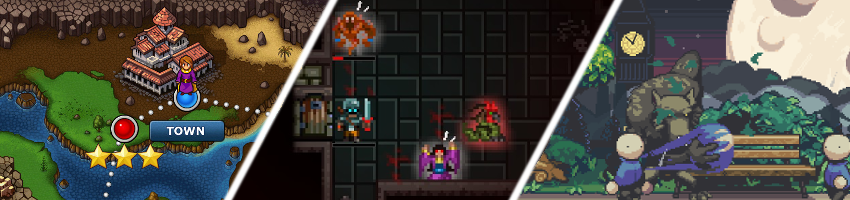
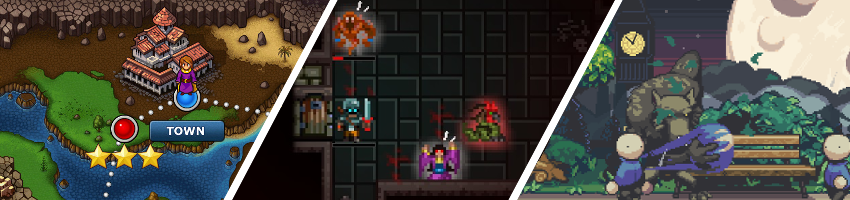
Readme: tweak the images a bit
[skip ci]

diff --git a/README.md b/README.md
@@ -21,7 +21,7 @@ If you want to contribute code or report an issue, please check our [CONTRIBUTIN
 
 Thanks to being built on top of [Haxe](https://haxe.org/) and [OpenFL](http://www.openfl.org/), HaxeFlixel can target the following platforms _natively_:
 
-<div style="text-align:center"><img src ="images/targets.png" /></div>
+![](images/platforms.png)
 
 ## About
 
